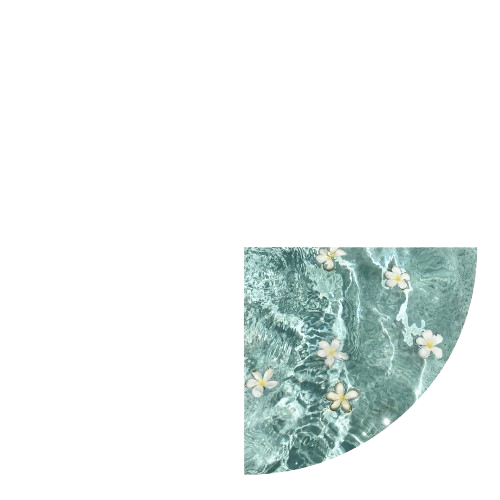
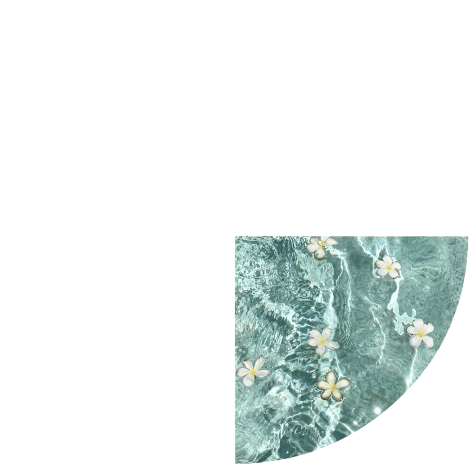
1

Changed region(s): [[0.4726, 0.4726, 1.0, 1.0]]

diff --git a/Project2/style2.css b/Project2/style2.css
@@ -338,7 +338,7 @@ body {
 }
 
 .seasons {
-    background: black;
+    background: rgb(0, 0, 0);
     height: 300vh;
     display: flex;
     /* align-items: center; */
@@ -349,34 +349,47 @@ body {
 }
 
 .summer {
-    width: 100%;
+    /* width: 80%; */
+    height: 100vh;
+    /* aspect-ratio: 1/1; */
+    background-color: black;
+    transform: translateX(-10%);
+    position: relative;
 }
 
 .summer img {
-    width: 80%;
-    transform-origin: center center;
+    height: 100%;
+    /* transform-origin: center center; */
 }
 
 .black1 {
-    /* border: 1px solid white; */
-    height: 200vh;
-    width: 50%;
-    left: 39.5%;
-    z-index: 1;
     position: absolute;
+    /* border: 1px solid white; */
+    outline: 1px solid black;
+    /* height: 200vh; */
+    width: 50%;
+    height: 90vh;
+    top:0px;
+    left:50%;
+    /* left: 39.5%; */
+    /* z-index: 1; */
+    
     background-color: black;
-    display: flex
+    /* display: flex */
 }
 
 .black2 {
     /* border: 1px solid pink; */
-    height: 100vh;
+    outline: 1px solid black;
+
+    height: 50vh;
     width: 100%;
-    top: 23%;
-    z-index: 1;
+    top: 50%;
+    left:0;
+    /* z-index: 1; */
     position: absolute;
     background-color: black;
-    display: flex
+    /* display: flex */
 }
 
 .hi {

diff --git a/Project2/index2.html b/Project2/index2.html
@@ -67,9 +67,10 @@ And often its golden face is dimmed.</p> -->
             <div class="summer">
                 <img src="images/summer.png" alt="">
                 <!-- <a href="index2.html"><img src="images/clickable.png" alt=""></a> -->
+                <div class="black1"></div>
+                <div class="black2"></div>
             </div>
-            <div class="black1"></div>
-            <div class="black2"></div>
+            
         </div>
     </div>
 
